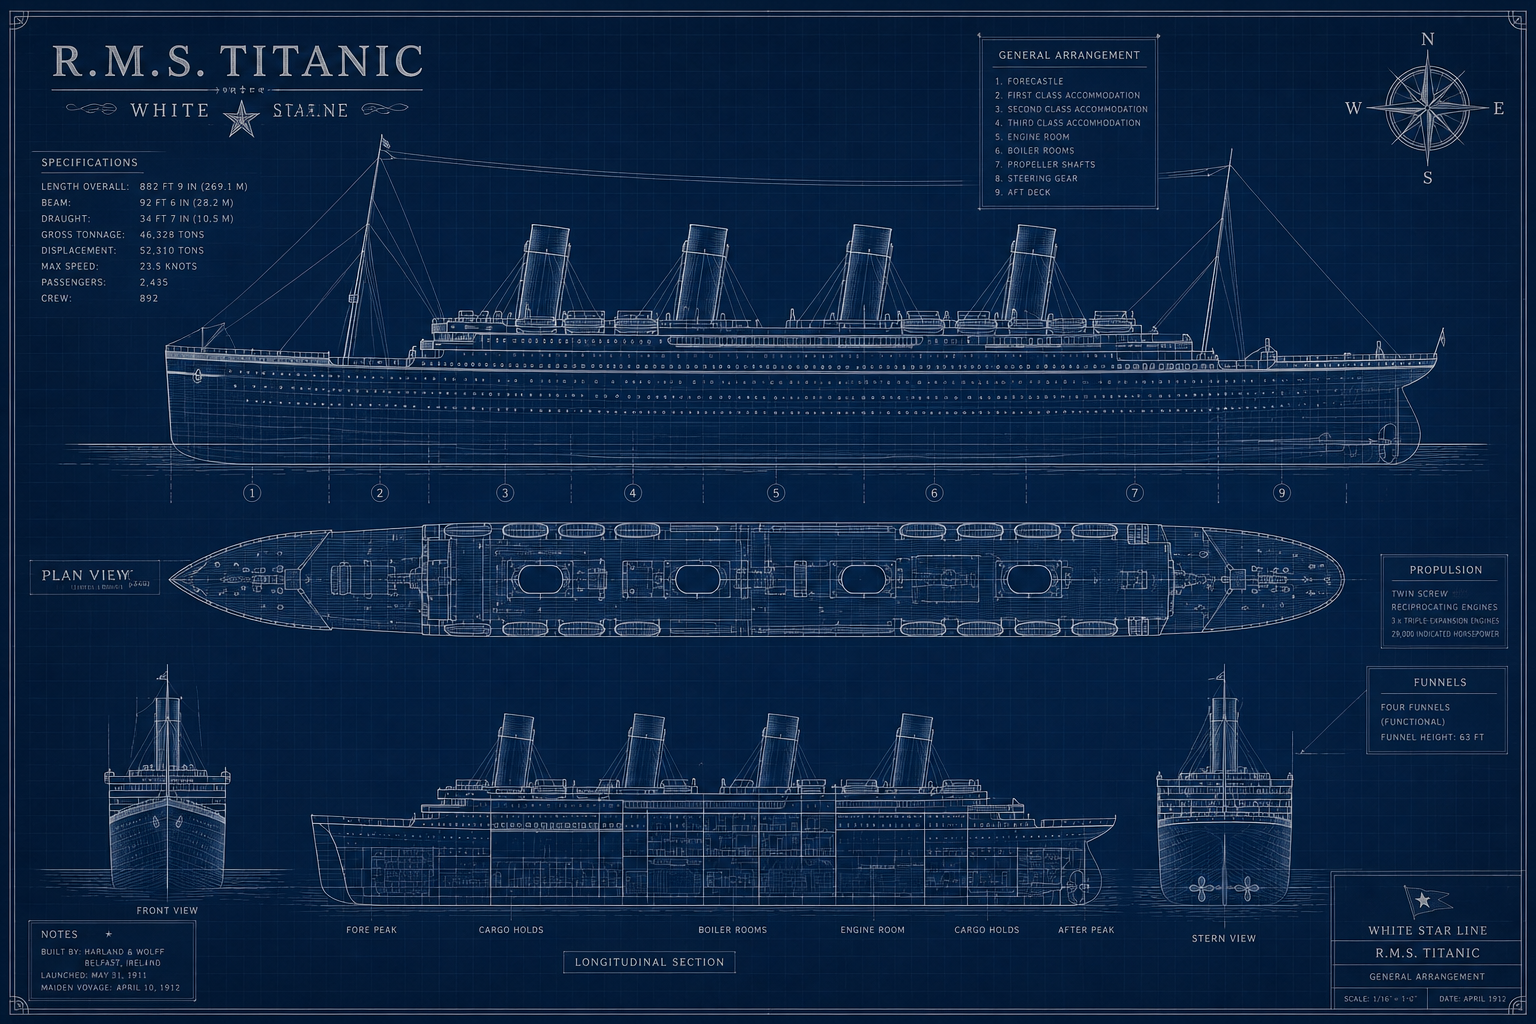
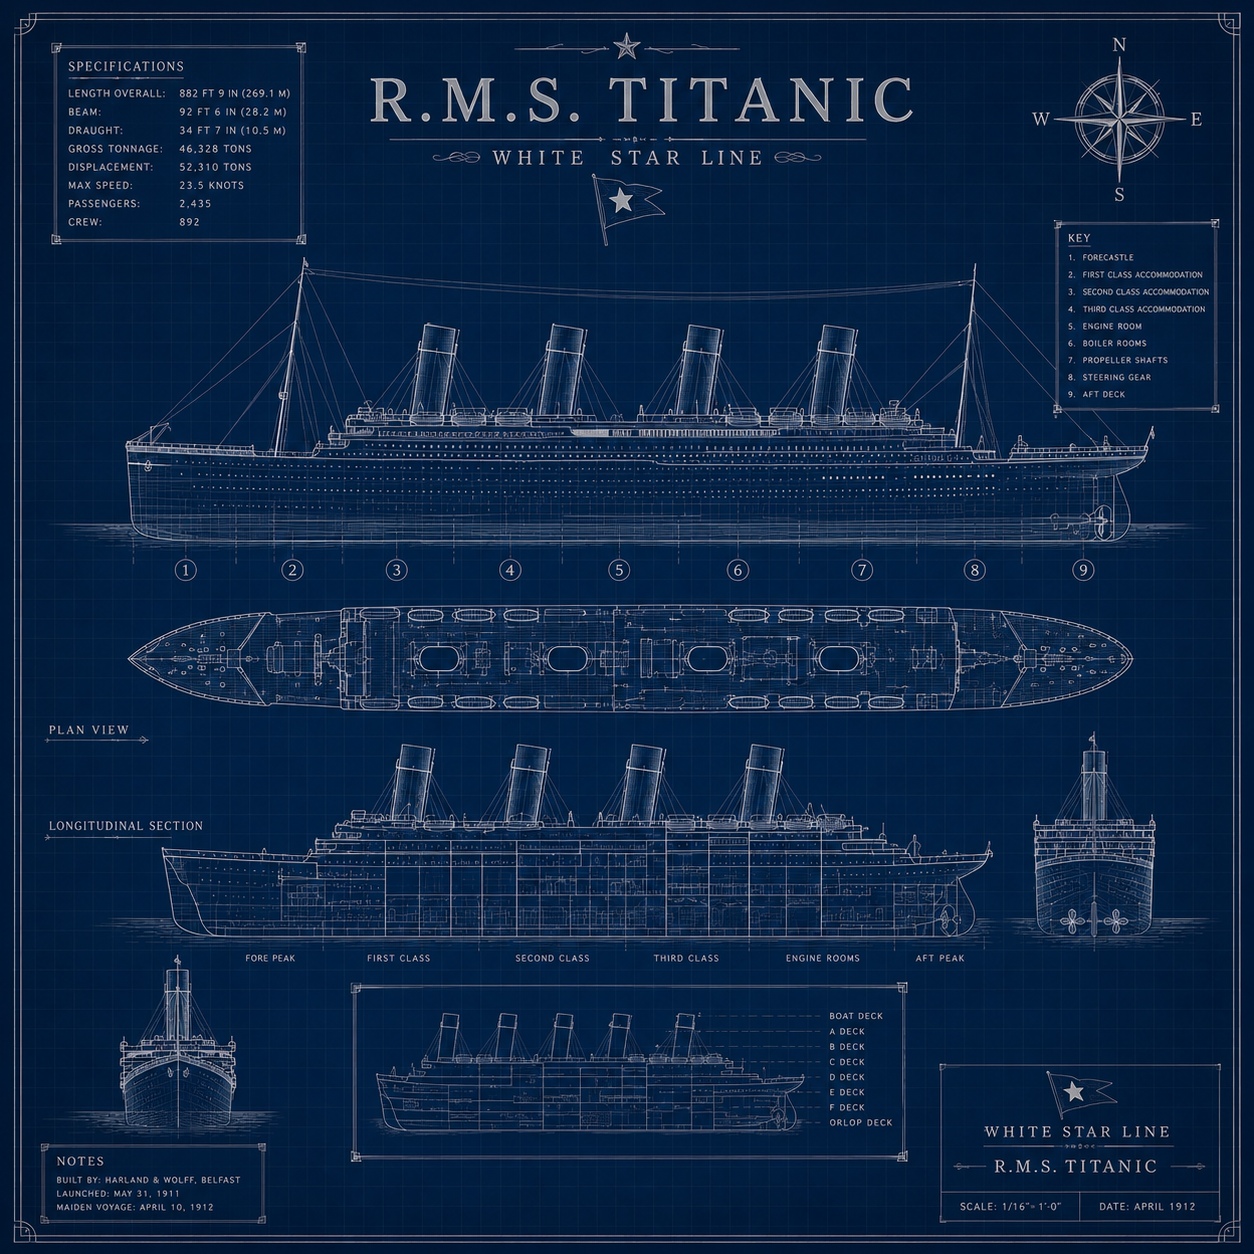
Adjust image layout for project graphs

Changed region(s): [[0.0, 0.0, 0.9952, 1.0]]

diff --git a/_projects/2026-07-23-titanic-eda.md b/_projects/2026-07-23-titanic-eda.md
@@ -40,6 +40,10 @@ The two strongest survival factors, viewed from three angles: raw counts, rates 
 <div class="gallery-box">
   <div class="gallery">
     <img src="/images/01-project_titanic_sex_counts.png" loading="lazy" alt="Survival counts by sex">
+  </div>
+</div>
+<div class="gallery-box">
+  <div class="gallery">
     <img src="/images/01-project_titanic_class_sex.png" loading="lazy" alt="Survival rate by class and sex">
     <img src="/images/01-project_titanic_heatmap.png" loading="lazy" alt="Survival rate heatmap by class and sex">
   </div>
@@ -78,6 +82,11 @@ After controlling for class, most of Cherbourg's advantage disappeared, though a
   <div class="gallery">
     <img src="/images/01-project_titanic_port_survival.png" loading="lazy" alt="Survival rate by embarkation port">
     <img src="/images/01-project_titanic_port_counts.png" loading="lazy" alt="Survival counts by embarkation port">
+  </div>
+</div>
+
+<div class="gallery-box">
+  <div class="gallery">
     <img src="/images/01-project_titanic_port_sex.png" loading="lazy" alt="Survival rate by port and sex">
   </div>
 </div>